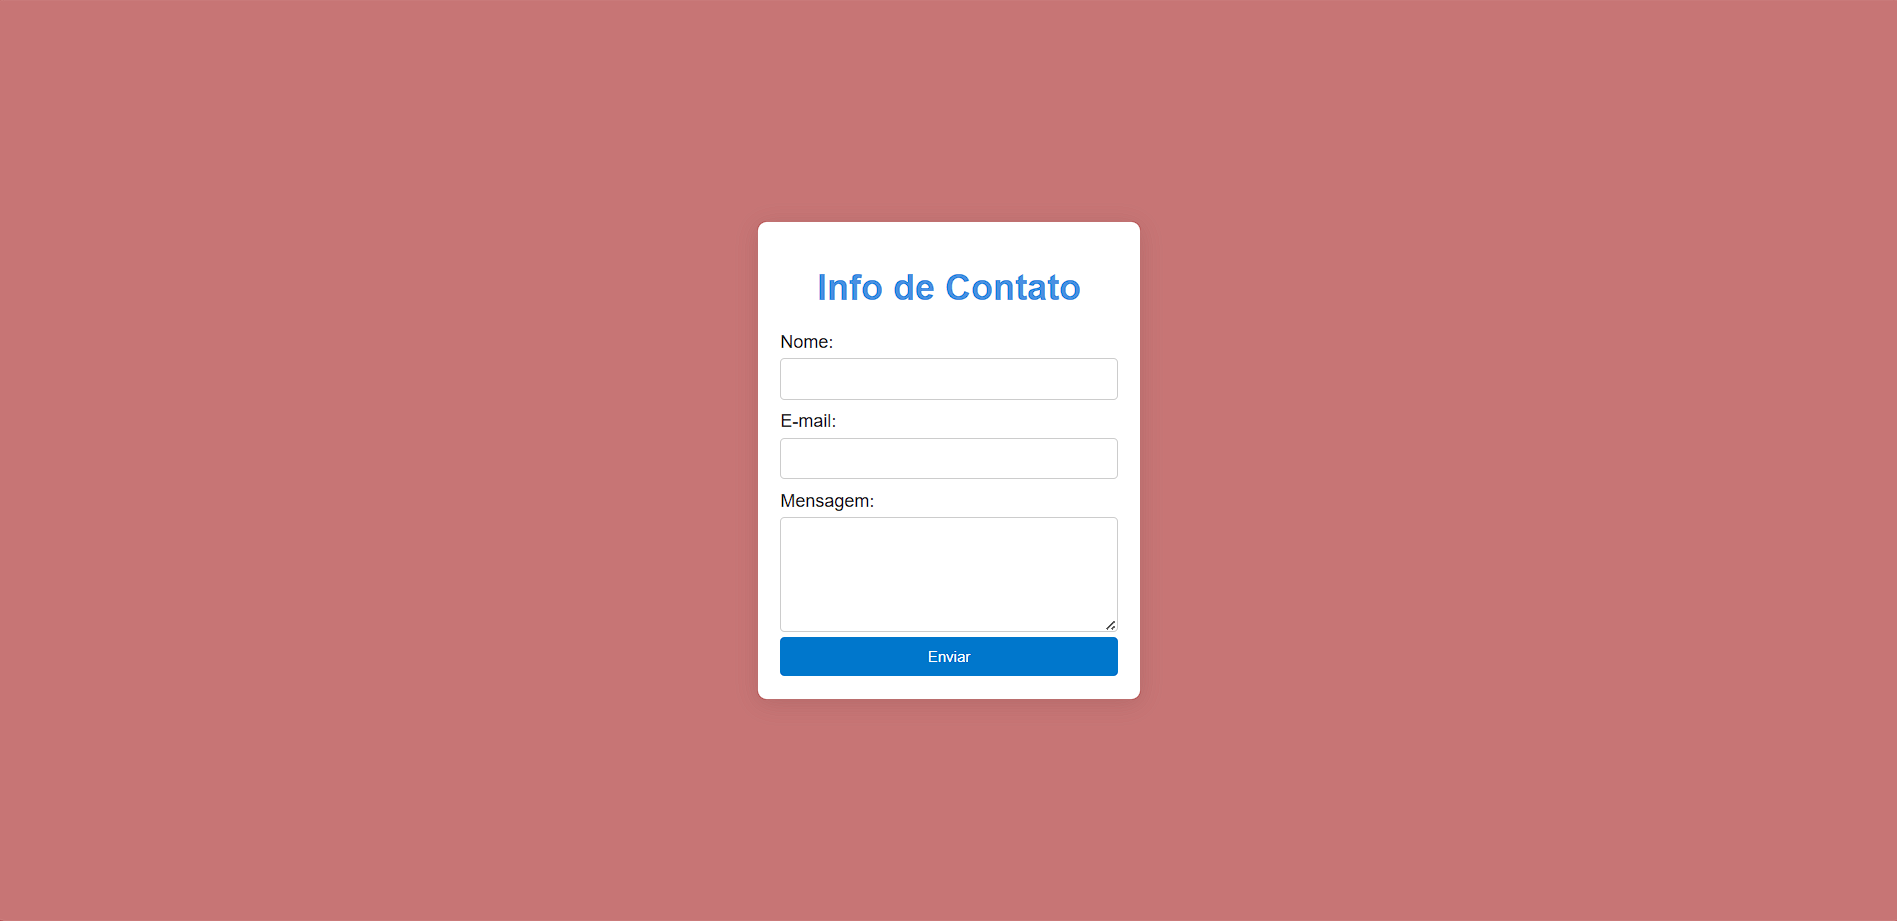
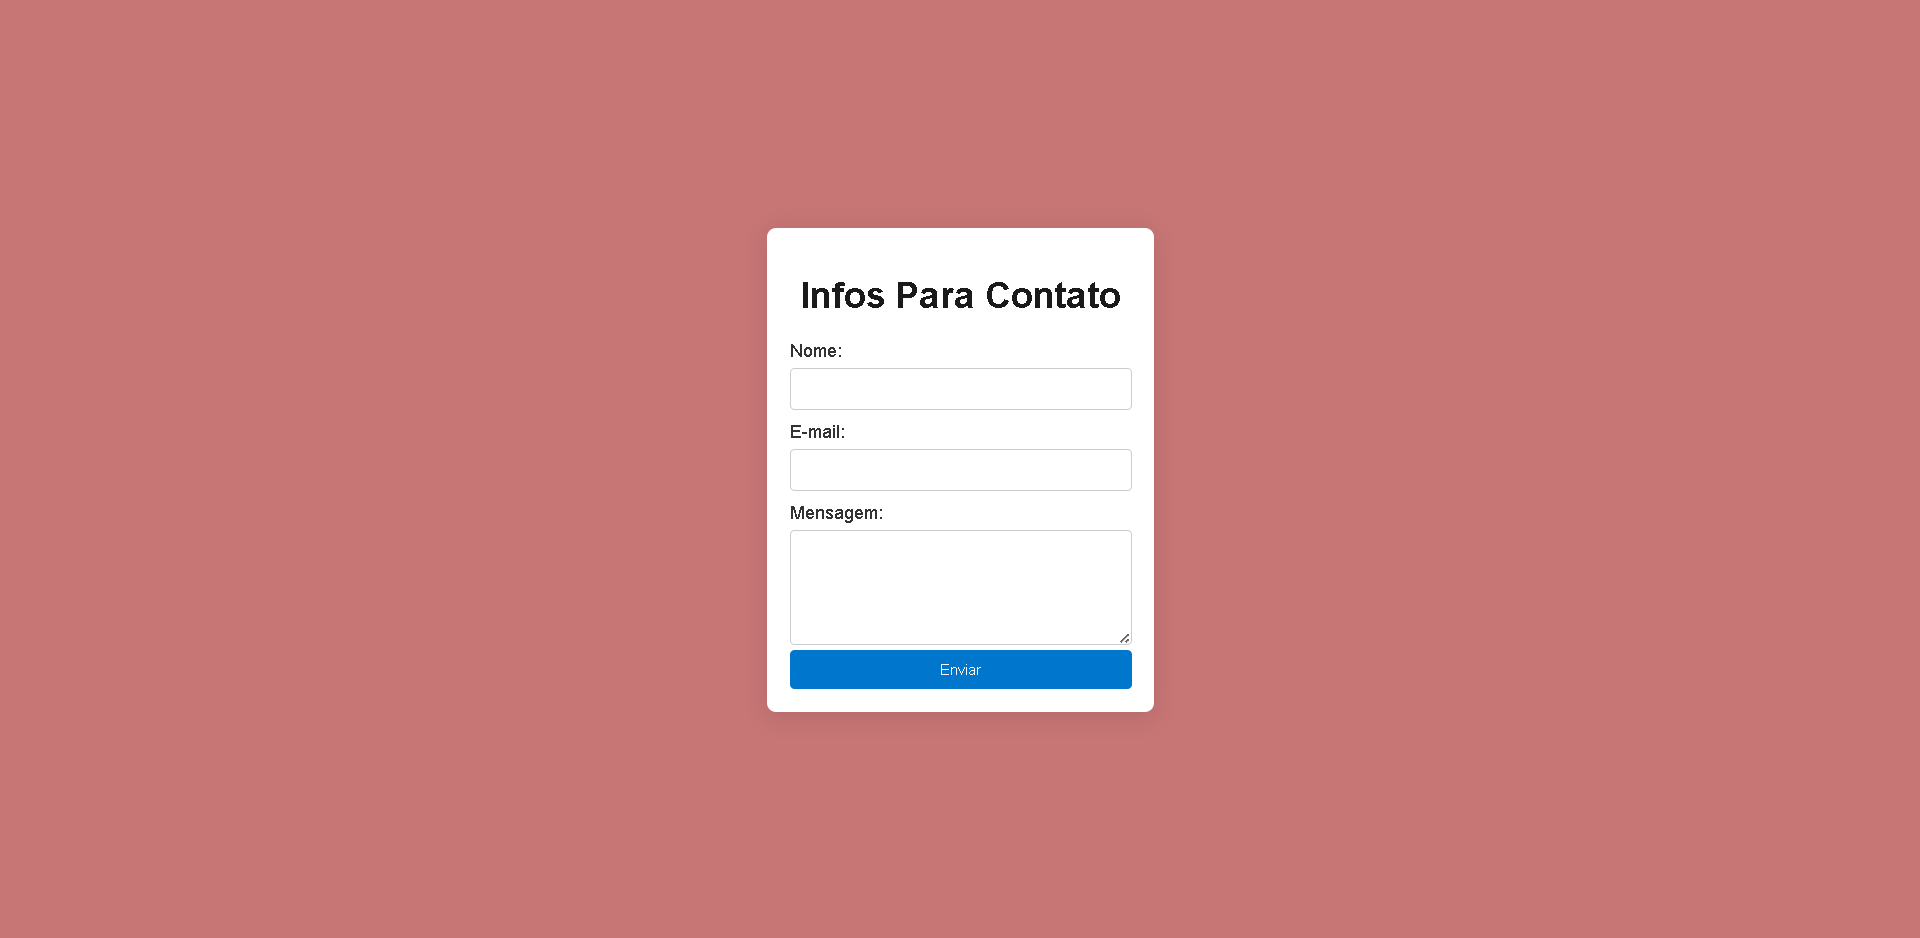
Add files via upload

diff --git a/PrjProgramacaoWeb/Atividade 15/style.css b/PrjProgramacaoWeb/Atividade 15/style.css
@@ -17,8 +17,8 @@ body {
     text-align: center;
 }
 
-h1 {
-    color: #4a90e2;
+h1, h2 {
+    color: #141414;
     margin-bottom: 20px;
 }
 
@@ -40,99 +40,37 @@ h1 {
 }
 
 @keyframes countdown {
-    0% {
-        content: "00:00:30";
-    }
-    3.33% {
-        content: "00:00:29";
-    }
-    6.67% {
-        content: "00:00:28";
-    }
-    10% {
-        content: "00:00:27";
-    }
-    13.33% {
-        content: "00:00:26";
-    }
-    16.67% {
-        content: "00:00:25";
-    }
-    20% {
-        content: "00:00:24";
-    }
-    23.33% {
-        content: "00:00:23";
-    }
-    26.67% {
-        content: "00:00:22";
-    }
-    30% {
-        content: "00:00:21";
-    }
-    33.33% {
-        content: "00:00:20";
-    }
-    36.67% {
-        content: "00:00:19";
-    }
-    40% {
-        content: "00:00:18";
-    }
-    43.33% {
-        content: "00:00:17";
-    }
-    46.67% {
-        content: "00:00:16";
-    }
-    50% {
-        content: "00:00:15";
-    }
-    53.33% {
-        content: "00:00:14";
-    }
-    56.67% {
-        content: "00:00:13";
-    }
-    60% {
-        content: "00:00:12";
-    }
-    63.33% {
-        content: "00:00:11";
-    }
-    66.67% {
-        content: "00:00:10";
-    }
-    70% {
-        content: "00:00:09";
-    }
-    73.33% {
-        content: "00:00:08";
-    }
-    76.67% {
-        content: "00:00:07";
-    }
-    80% {
-        content: "00:00:06"; 
-    }
-    83.33% {
-        content: "00:00:05"; 
-    }
-    86.67% {
-        content: "00:00:04"; 
-    }
-    90% {
-        content: "00:00:03"; 
-    }
-    93.33% {
-        content: "00:00:02"; 
-    }
-    96.67% {
-        content: "00:00:01"; 
-    }
-    100% {
-        content: "00:00:00"; 
-    }
+    0% {content: "00:00:30";}
+    3.33% {content: "00:00:29";}
+    6.67% {content: "00:00:28";}
+    10% {content: "00:00:27";}
+    13.33% {content: "00:00:26";}
+    16.67% {content: "00:00:25";}
+    20% {content: "00:00:24";}
+    23.33% {content: "00:00:23";}
+    26.67% {content: "00:00:22";}
+    30% {content: "00:00:21";}
+    33.33% {content: "00:00:20";}
+    36.67% {content: "00:00:19";}
+    40% {content: "00:00:18";}
+    43.33% {content: "00:00:17";}
+    46.67% {content: "00:00:16";}
+    50% {content: "00:00:15";}
+    53.33% {content: "00:00:14";}
+    56.67% {content: "00:00:13";}
+    60% {content: "00:00:12";}
+    63.33% {content: "00:00:11";}
+    66.67% {content: "00:00:10";}
+    70% {content: "00:00:09";}
+    73.33% {content: "00:00:08";}
+    76.67% {content: "00:00:07";}
+    80% {content: "00:00:06";}
+    83.33% {content: "00:00:05";}
+    86.67% {content: "00:00:04";}
+    90% {content: "00:00:03";}
+    93.33% {content: "00:00:02";}
+    96.67% {content: "00:00:01";} 
+    100% {content: "00:00:00";}
 }
 
 .product-info {

diff --git a/PrjProgramacaoWeb/Atividade 04/style.css b/PrjProgramacaoWeb/Atividade 04/style.css
@@ -1,7 +1,7 @@
 body {
     margin: 0;
-    font-family: 'Arial', sans-serif; /* Alterado para Arial */
-    background-color: #c77575; /* Cor de fundo ajustada */
+    font-family: 'Arial', sans-serif; 
+    background-color: #c77575; 
     display: flex;
     justify-content: center;
     align-items: center;
@@ -12,7 +12,7 @@ body {
 h1 {
     margin: 20px 0;
     text-align: center;
-    color: #4a90e2; /* Cor do título ajustada */
+    color: #141414; 
 }
 
 .blog-list {
@@ -23,7 +23,7 @@ h1 {
 }
 
 .blog-item {
-    background: rgb(224, 200, 200); /* Mantido */
+    background: rgb(224, 200, 200); 
     border-radius: 8px;
     box-shadow: 0 2px 5px rgba(0, 0, 0, 0.1);
     margin-bottom: 20px;
@@ -32,25 +32,25 @@ h1 {
 
 .blog-item h2 {
     margin: 0;
-    color: #333; /* Mantido */
+    color: #333;
 }
 
 .blog-item .date {
     font-size: 14px;
-    color: #555; /* Mantido */
+    color: #555; 
 }
 
 .blog-item .summary {
     margin: 10px 0;
-    color: #666; /* Mantido */
+    color: #666;
 }
 
 .blog-item a {
     text-decoration: none;
-    color: #0077cc; /* Mantido */
+    color: #0077cc; 
     font-weight: bold;
 }
 
 .blog-item a:hover {
-    text-decoration: underline; /* Mantido */
+    text-decoration: underline;
 }

diff --git a/PrjProgramacaoWeb/Site Apresentação/Index.html b/PrjProgramacaoWeb/Site Apresentação/Index.html
@@ -84,13 +84,13 @@
                 </li>
                 <li>
                     <a href="../Atividade 11/index.html" title="Clique para ver a Página de Mapa do Site" target="_blank">
-                        <img src="images/AtvImg11.png" alt="Atividade 11">
+                        <img src="images/ImgAtv11.PNG" alt="Atividade 11">
                         <p class="atividade-descricao">11 - Página de Mapa do Site</p>
                     </a>
                 </li>
                 <li>
                     <a href="../Atividade 12/index.html" title="Clique para ver a Página de Galeria de Fotos" target="_blank">
-                        <img src="images/AtvImg12.png" alt="Atividade 12">
+                        <img src="images/ImgAtv12.png" alt="Atividade 12">
                         <p class="atividade-descricao">12 - Página de Galeria de Fotos</p>
                     </a>
                 </li>

diff --git a/PrjProgramacaoWeb/Atividade 08/index.html b/PrjProgramacaoWeb/Atividade 08/index.html
@@ -14,7 +14,7 @@
         </div>
         <div class="product-details">
             <h1>Produto Exemplo</h1>
-            <p>Este é um produto de alta qualidade que oferece tudo o que você precisa para suas necessidades. Ele vem com excelentes recursos e um design moderno.</p>
+            <p>Este é um produto de média qualidade, possui efeitos simples e provavelmente servira para o seu dia a dia comum</p>
             <p class="price">R$ 199,90</p>
             <button class="buy-button">Comprar Agora</button>
         </div>

diff --git a/PrjProgramacaoWeb/Atividade 15/index.html b/PrjProgramacaoWeb/Atividade 15/index.html
@@ -10,9 +10,11 @@
 <body>
 
     <div class="container">
+        
         <h1>Lançamento do Novo Produto!</h1>
+        <h2>Compre já !! (Em alta entre programadores) </h2>
+
         <div class="countdown">
-            <h2>Contagem Regressiva para o Lançamento: </h2>
             <time></time> 
         </div>
         

diff --git a/PrjProgramacaoWeb/Atividade 05/index.html b/PrjProgramacaoWeb/Atividade 05/index.html
@@ -11,7 +11,9 @@
 <body>
 
     <div class="container">
-        <h1>Info de Contato</h1>
+
+        <h1>Infos Para Contato</h1>
+
         <form id="contact-form">
             <label for="name">Nome:</label>
             <input type="text" id="name" name="name" required>

diff --git a/PrjProgramacaoWeb/Atividade 03/style.css b/PrjProgramacaoWeb/Atividade 03/style.css
@@ -12,7 +12,7 @@ body {
 h1 {
     margin: 20px 0;
     text-align: center;
-    color: #4a90e2;
+    color: #111111;
 }
 
 .portfolio {

diff --git a/PrjProgramacaoWeb/Atividade 05/style.css b/PrjProgramacaoWeb/Atividade 05/style.css
@@ -18,7 +18,7 @@ body {
 
 h1 {
     text-align: center;
-    color: #4a90e2;
+    color: #1a1a1a;
     margin: 20px 0;
 }
 

diff --git a/PrjProgramacaoWeb/Atividade 11/style.css b/PrjProgramacaoWeb/Atividade 11/style.css
@@ -18,7 +18,7 @@ body {
 
 h1 {
     text-align: center;
-    color: #4a90e2;
+    color: #171717;
 }
 
 .content {

diff --git a/PrjProgramacaoWeb/Atividade 14/style.css b/PrjProgramacaoWeb/Atividade 14/style.css
@@ -12,7 +12,7 @@ body {
 }
 
 h1 {
-    color: #2378d9;
+    color: #141414;
     margin-bottom: 40px;
 }
 

diff --git a/PrjProgramacaoWeb/Atividade 06/style.css b/PrjProgramacaoWeb/Atividade 06/style.css
@@ -17,7 +17,7 @@ body {
 }
 
 h1 {
-    color: #4a90e2;
+    color: #1c1c1c;
     text-align: center;
 }
 

diff --git a/PrjProgramacaoWeb/Atividade 07/style.css b/PrjProgramacaoWeb/Atividade 07/style.css
@@ -17,7 +17,7 @@ body {
 }
 
 h1 {
-    color: #4a90e2;
+    color: #1e1e1e;
     text-align: center;
 }
 
